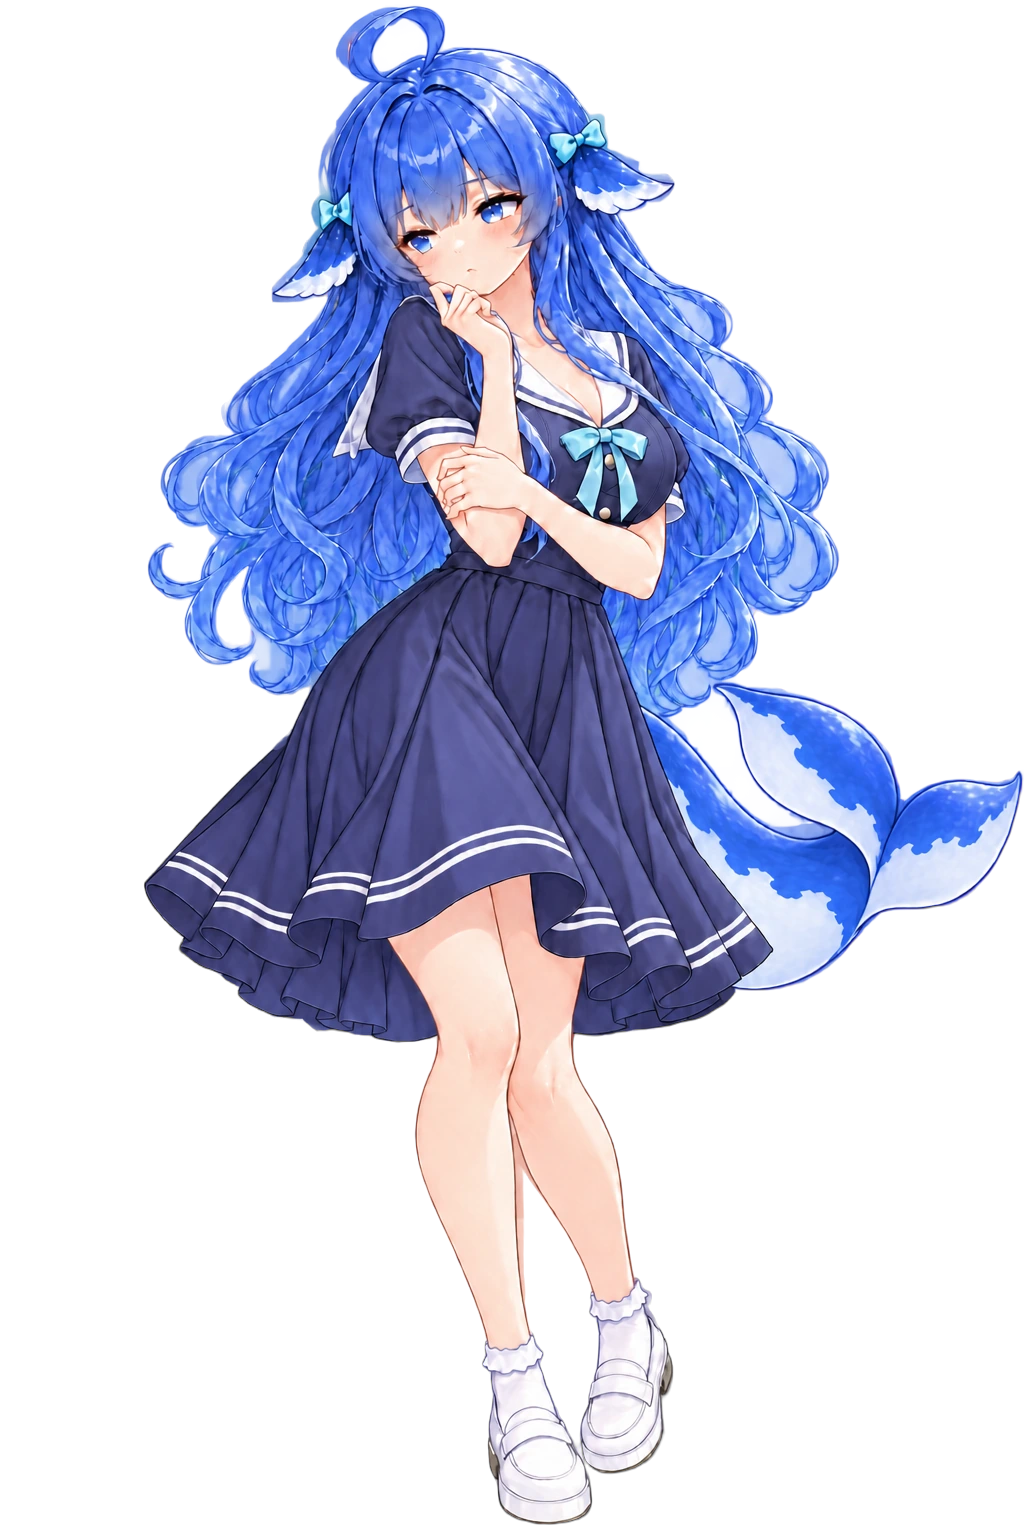
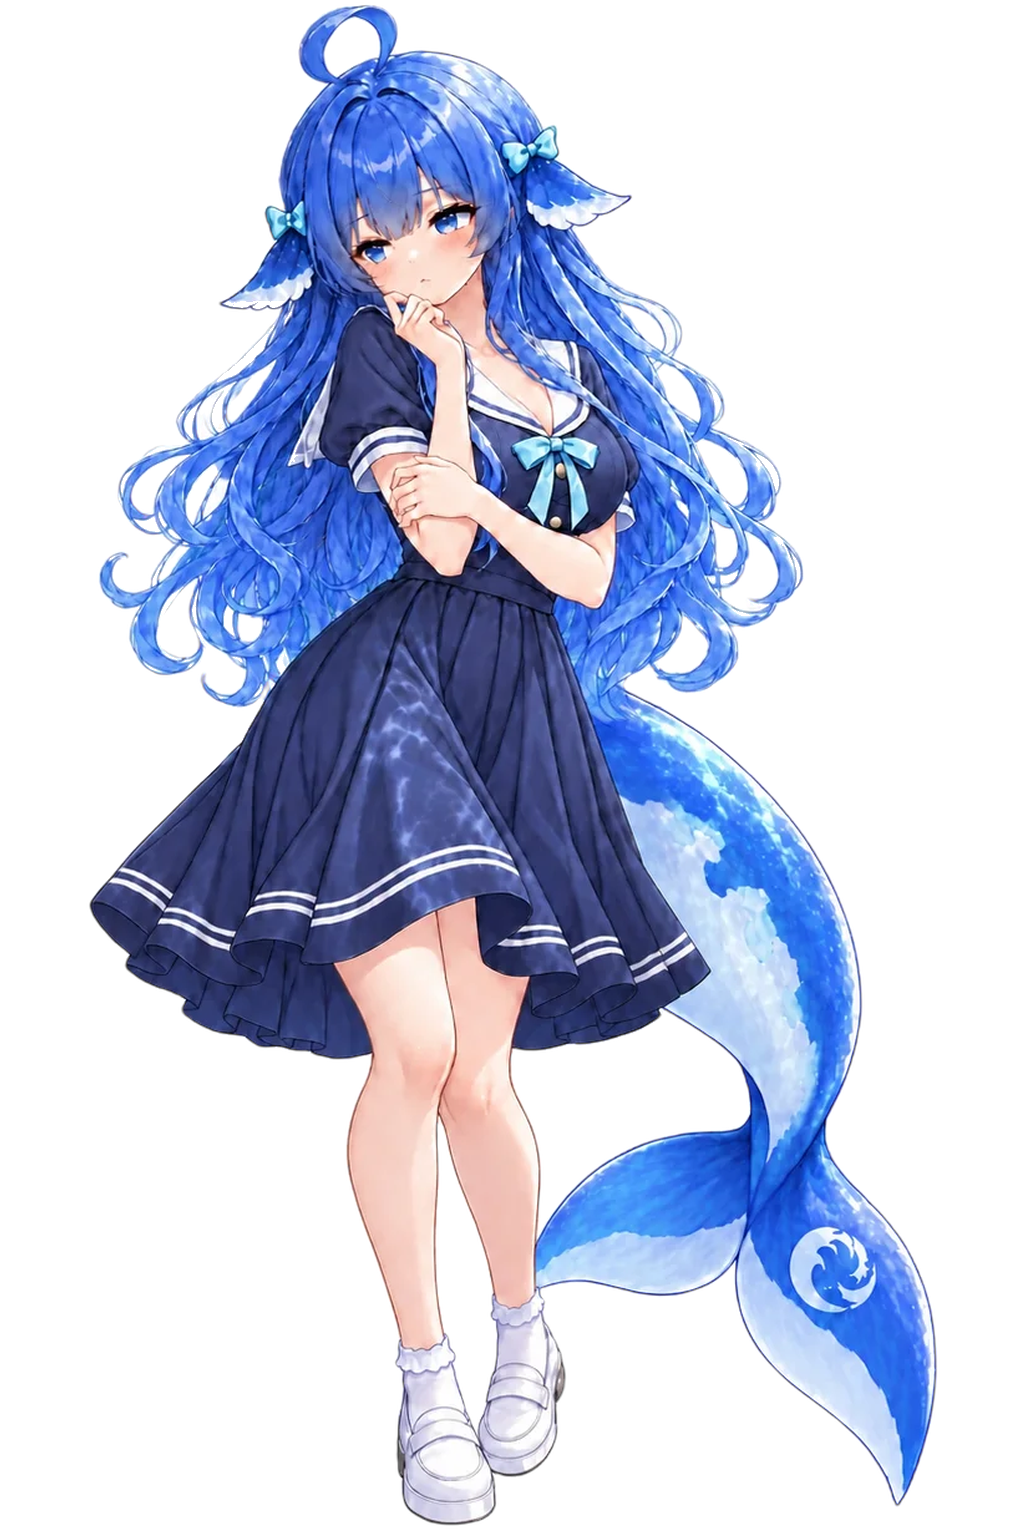
art: L03 换成用户改稿（抠图、发丝镂空、按原比例放入画布）

diff --git a/docs/collab/work-ledger/playtest-ledger-20261018.md b/docs/collab/work-ledger/playtest-ledger-20261018.md
@@ -66,3 +66,4 @@
 - L06 改为 Image2.5 直接透明底生成（发丝间真实镂空），首版尾巴跑到腿间，再做一次透明底编辑去掉；尾巴形状位置与上一版一致（用户认可此图尾巴，作为其它图的尾巴基准）。
 - 立绘流程改为：Image2.5 background=transparent 直出 → 轻度去薄雾（alpha<16% 清零），不再白底+rembg。
 - 10:56 用户：新 L06 腿不对（膝盖拧在一起、右大腿接错、腿间夹一缕蓝）。以旧版腿为参照透明底重画，只把裙下腿部区域羽化合成回来，头发镂空与尾巴保持不变。
+- 11:27 用户发来自己改好的 L03 害羞（白底 1254x1254），要求换进游戏。处理：抠图，去掉发丝间残留的白色，按旧版人物高度放大约 1.25 倍放进 1024x1536 画布。原稿入库 docs/collab/playtest/。
